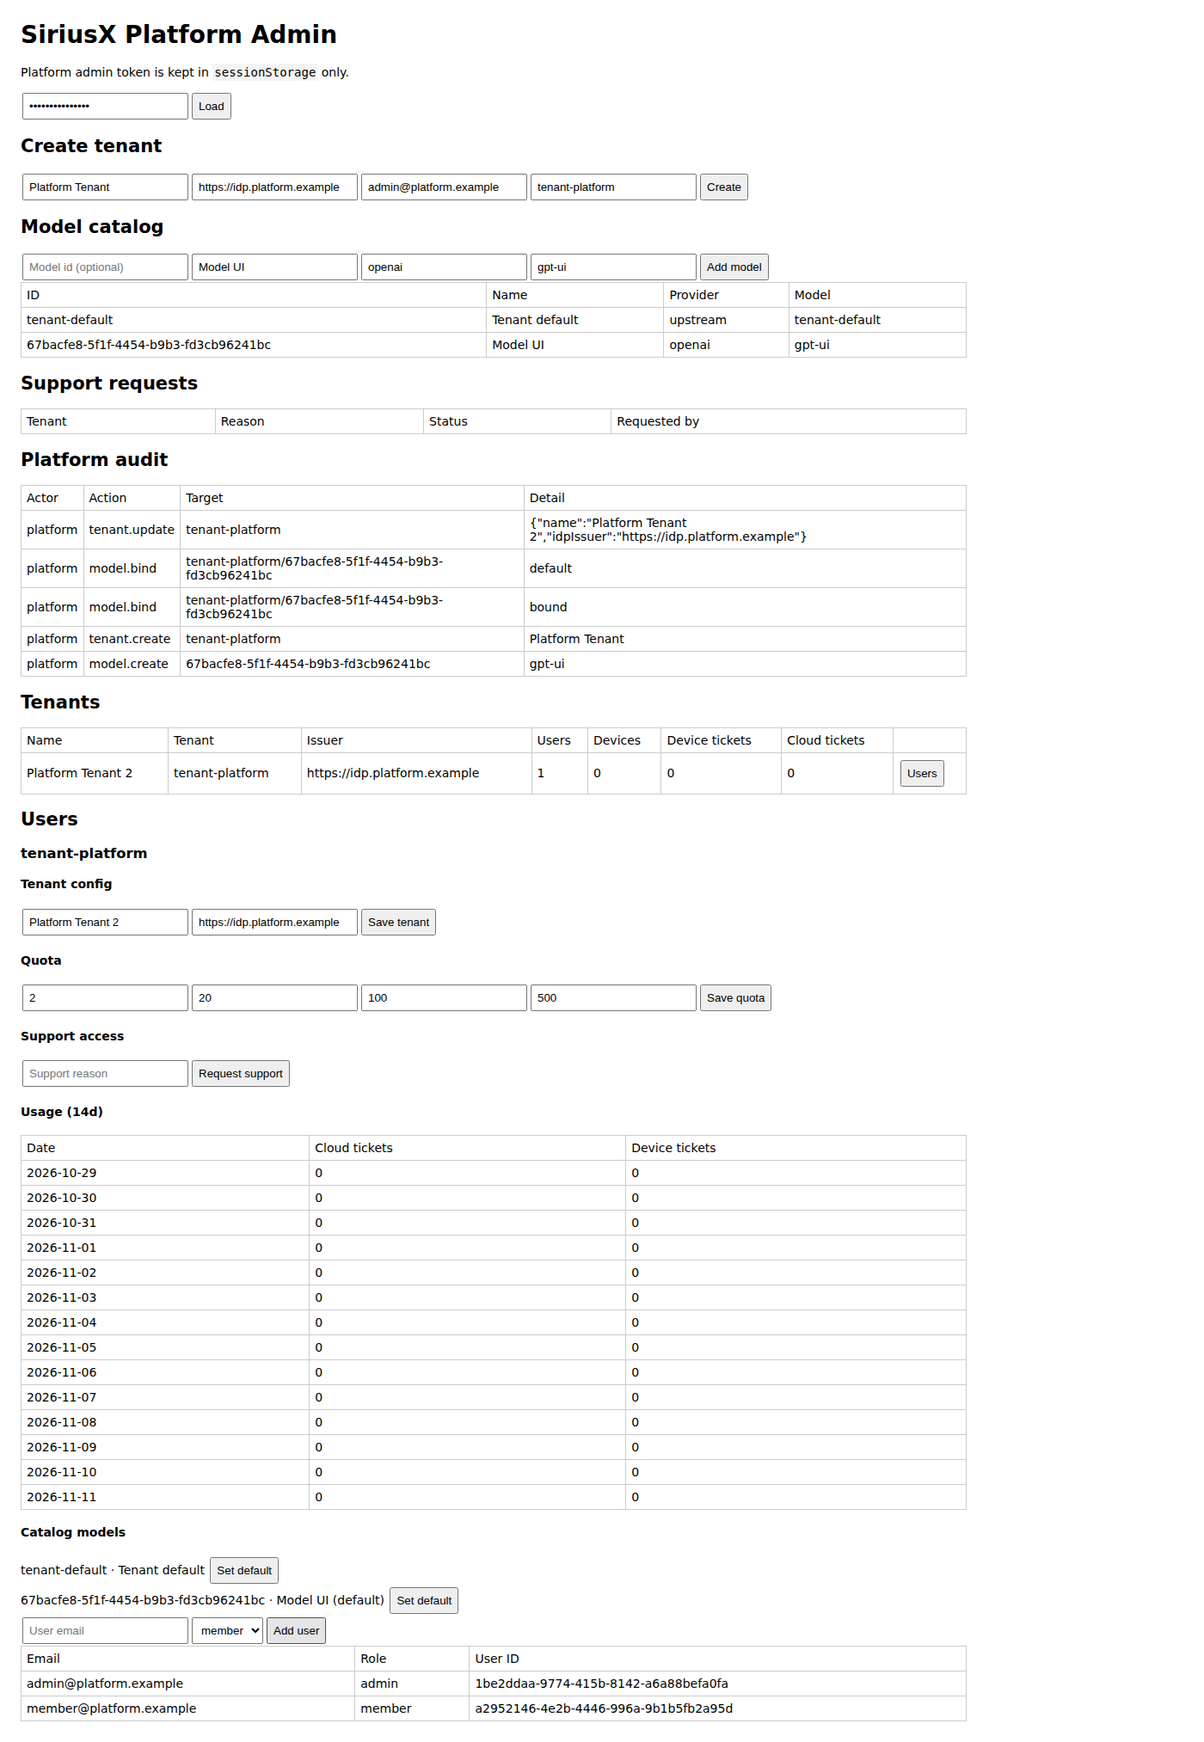
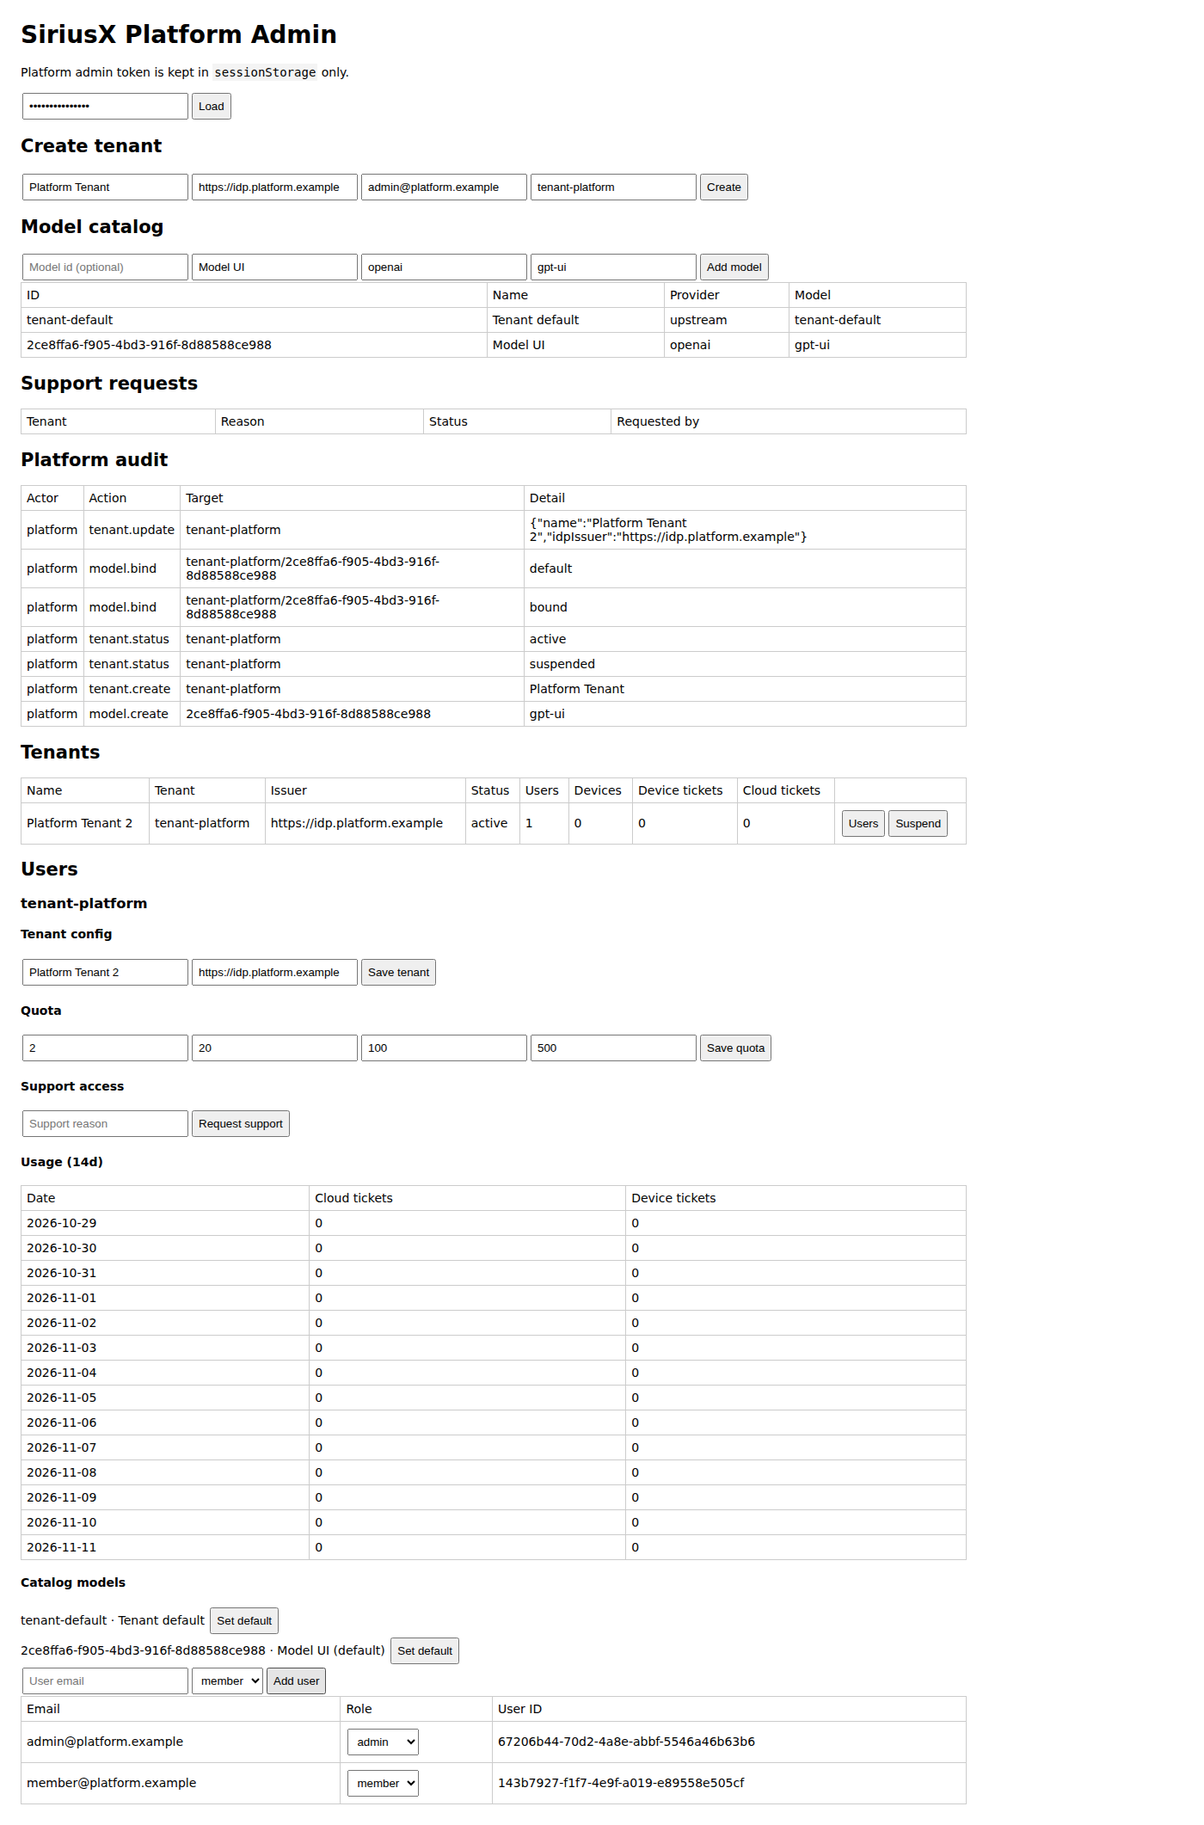
feat: suspend and resume tenants

diff --git a/apps/control-plane/src/index.ts b/apps/control-plane/src/index.ts
@@ -34,6 +34,7 @@ export interface Tenant {
   readonly name: string
   readonly idpIssuer: string
   readonly createdAt: number
+  readonly status: 'active' | 'suspended'
 }
 
 export interface Device {
@@ -68,6 +69,7 @@ CREATE TABLE IF NOT EXISTS tenants (
   id TEXT PRIMARY KEY,
   name TEXT NOT NULL,
   idp_issuer TEXT NOT NULL,
+  status TEXT NOT NULL DEFAULT 'active',
   created_at INTEGER NOT NULL
 );
 CREATE TABLE IF NOT EXISTS users (
@@ -224,6 +226,8 @@ export class ControlPlane {
     mkdirSync(options.dataDir, { recursive: true })
     this.#db = new DatabaseSync(options.dbPath)
     this.#db.exec(SCHEMA)
+    const tenantColumns = this.#db.prepare('PRAGMA table_info(tenants)').all() as Array<{ name: string }>
+    if (!tenantColumns.some(column => column.name === 'status')) this.#db.exec("ALTER TABLE tenants ADD COLUMN status TEXT NOT NULL DEFAULT 'active'")
     this.#dataDir = options.dataDir
     this.#secret = options.sessionSecret ?? randomBytes(32).toString('base64url')
     this.#now = options.now ?? Date.now
@@ -244,9 +248,9 @@ export class ControlPlane {
     this.#db.close()
   }
 
-  private tenantRow(tenantId: string): { id: string; name: string; idp_issuer: string; created_at: number } {
+  private tenantRow(tenantId: string): { id: string; name: string; idp_issuer: string; created_at: number; status: 'active' | 'suspended' } {
     const row = this.#db.prepare('SELECT * FROM tenants WHERE id = ?').get(tenantId) as
-      | { id: string; name: string; idp_issuer: string; created_at: number }
+      | { id: string; name: string; idp_issuer: string; created_at: number; status: 'active' | 'suspended' }
       | undefined
     if (row === undefined) throw new ControlPlaneError(404, 'TENANT_NOT_FOUND', tenantId)
     return row
@@ -257,8 +261,8 @@ export class ControlPlane {
     const now = this.#now()
     this.#db.exec('BEGIN')
     try {
-      this.#db.prepare('INSERT INTO tenants (id, name, idp_issuer, created_at) VALUES (?, ?, ?, ?)')
-        .run(id, input.name, input.idpIssuer, now)
+      this.#db.prepare('INSERT INTO tenants (id, name, idp_issuer, status, created_at) VALUES (?, ?, ?, ?, ?)')
+        .run(id, input.name, input.idpIssuer, 'active', now)
       this.#db.prepare('INSERT INTO settings (tenant_id) VALUES (?)').run(id)
       this.#db.prepare('INSERT OR IGNORE INTO tenant_models (tenant_id, model_id, is_default) VALUES (?, ?, 1)').run(id, 'tenant-default')
       this.#db.prepare('INSERT INTO tenant_quotas (tenant_id, max_users, max_devices, max_cloud_tickets_per_day, max_device_tickets_per_day, updated_at) VALUES (?, 50, 20, 100, 500, ?)').run(id, now)
@@ -269,7 +273,13 @@ export class ControlPlane {
       this.#db.exec('ROLLBACK')
       throw error
     }
-    return { id, name: input.name, idpIssuer: input.idpIssuer, createdAt: now }
+    return { id, name: input.name, idpIssuer: input.idpIssuer, createdAt: now, status: 'active' }
+  }
+
+  setTenantStatus(tenantId: string, status: 'active' | 'suspended'): Tenant {
+    const current = this.tenantRow(tenantId)
+    this.#db.prepare('UPDATE tenants SET status = ? WHERE id = ?').run(status, tenantId)
+    return { id: tenantId, name: current.name, idpIssuer: current.idp_issuer, createdAt: current.created_at, status }
   }
 
   updateTenant(tenantId: string, patch: { name?: string; idpIssuer?: string }): Tenant {
@@ -277,13 +287,13 @@ export class ControlPlane {
     const name = patch.name ?? current.name
     const idpIssuer = patch.idpIssuer ?? current.idp_issuer
     this.#db.prepare('UPDATE tenants SET name = ?, idp_issuer = ? WHERE id = ?').run(name, idpIssuer, tenantId)
-    return { id: tenantId, name, idpIssuer, createdAt: current.created_at }
+    return { id: tenantId, name, idpIssuer, createdAt: current.created_at, status: current.status }
   }
 
   listTenants(): Tenant[] {
     return (this.#db.prepare('SELECT * FROM tenants ORDER BY created_at, rowid').all() as Array<{
-      id: string; name: string; idp_issuer: string; created_at: number
-    }>).map(row => ({ id: row.id, name: row.name, idpIssuer: row.idp_issuer, createdAt: row.created_at }))
+      id: string; name: string; idp_issuer: string; created_at: number; status: 'active' | 'suspended'
+    }>).map(row => ({ id: row.id, name: row.name, idpIssuer: row.idp_issuer, createdAt: row.created_at, status: row.status }))
   }
 
   createSupportRequest(tenantId: string, requestedBy: string, reason: string): { id: string; status: string; expiresAt: number | null } {
@@ -429,8 +439,8 @@ export class ControlPlane {
 
   findTenantByIssuer(issuer: string): Tenant | undefined {
     const row = this.#db.prepare('SELECT * FROM tenants WHERE idp_issuer = ?').get(issuer) as
-      | { id: string; name: string; idp_issuer: string; created_at: number } | undefined
-    return row === undefined ? undefined : { id: row.id, name: row.name, idpIssuer: row.idp_issuer, createdAt: row.created_at }
+      | { id: string; name: string; idp_issuer: string; created_at: number; status: 'active' | 'suspended' } | undefined
+    return row === undefined ? undefined : { id: row.id, name: row.name, idpIssuer: row.idp_issuer, createdAt: row.created_at, status: row.status }
   }
 
   findUserByEmail(tenantId: string, email: string): { id: string; role: Role } | undefined {
@@ -459,6 +469,7 @@ export class ControlPlane {
   }
 
   issueSession(input: { tenantId: string; userId: string; role: Role }): string {
+    if (this.tenantRow(input.tenantId).status === 'suspended') throw new ControlPlaneError(403, 'TENANT_SUSPENDED', 'tenant is suspended')
     const user = this.#db.prepare('SELECT id, role FROM users WHERE id = ? AND tenant_id = ?').get(input.userId, input.tenantId) as
       | { id: string; role: string } | undefined
     if (user === undefined) throw new ControlPlaneError(401, 'USER_NOT_FOUND', 'user is not a member of this tenant')
@@ -491,6 +502,8 @@ export class ControlPlane {
     if (typeof value.jti === 'string' && this.#db.prepare('SELECT 1 FROM revoked_sessions WHERE session_id = ? AND expires_at > ?').get(value.jti, this.#now()) !== undefined) {
       throw new ControlPlaneError(401, 'SESSION_REVOKED', 'session revoked')
     }
+    const tenant = this.#db.prepare('SELECT status FROM tenants WHERE id = ?').get(value.tenantId) as { status: string } | undefined
+    if (tenant?.status === 'suspended') throw new ControlPlaneError(403, 'TENANT_SUSPENDED', 'tenant is suspended')
     const user = this.#db.prepare('SELECT role FROM users WHERE id = ? AND tenant_id = ?').get(value.userId, value.tenantId) as { role: Role } | undefined
     if (user === undefined) throw new ControlPlaneError(401, 'UNAUTHORIZED', 'user no longer exists')
     return { tenantId: value.tenantId, userId: value.userId, role: user.role }

diff --git a/apps/control-plane/src/server.ts b/apps/control-plane/src/server.ts
@@ -138,10 +138,12 @@ async function loadTenants() {
   const data = await api('/v1/admin/tenants');
   tenantsCache = data.tenants;
   const host = document.getElementById('tenants'); host.textContent = '';
-  const table = document.createElement('table'); table.append(row(['Name','Tenant','Issuer','Users','Devices','Device tickets','Cloud tickets','']));
+  const table = document.createElement('table'); table.append(row(['Name','Tenant','Issuer','Status','Users','Devices','Device tickets','Cloud tickets','']));
   for (const tenant of data.tenants) {
-    const tr = row([tenant.name, tenant.id, tenant.idpIssuer, tenant.usage.users, tenant.usage.devices, tenant.usage.deviceTickets, tenant.usage.cloudTickets]);
-    const button = document.createElement('button'); button.textContent = 'Users'; button.onclick = () => loadUsers(tenant.id); const td = document.createElement('td'); td.append(button); tr.append(td); table.append(tr);
+    const tr = row([tenant.name, tenant.id, tenant.idpIssuer, tenant.status, tenant.usage.users, tenant.usage.devices, tenant.usage.deviceTickets, tenant.usage.cloudTickets]);
+    const button = document.createElement('button'); button.textContent = 'Users'; button.onclick = () => loadUsers(tenant.id); const td = document.createElement('td'); td.append(button);
+    const toggle = document.createElement('button'); toggle.textContent = tenant.status === 'active' ? 'Suspend' : 'Resume'; toggle.onclick = async () => { try { await api('/v1/admin/tenants/' + encodeURIComponent(tenant.id) + '/status', {method:'POST', body: JSON.stringify({status: tenant.status === 'active' ? 'suspended' : 'active'})}); await loadTenants(); await loadPlatformAudit(); } catch (e) { err(e); } };
+    td.append(toggle); tr.append(td); table.append(tr);
   }
   host.append(table);
 }
@@ -171,7 +173,12 @@ async function loadUsers(tenantId) {
   const add = document.createElement('div'); add.innerHTML = '<input id="newEmail" placeholder="User email"><select id="newRole"><option>member</option><option>admin</option></select><button id="addUser">Add user</button>'; host.append(add);
   add.querySelector('#addUser').onclick = async () => { try { await api('/v1/admin/tenants/' + encodeURIComponent(tenantId) + '/users', {method:'POST', body: JSON.stringify({email: add.querySelector('#newEmail').value, role: add.querySelector('#newRole').value})}); await loadUsers(tenantId); } catch (e) { err(e); } };
   const table = document.createElement('table'); table.append(row(['Email','Role','User ID']));
-  for (const user of data.users) table.append(row([user.email, user.role, user.userId]));
+  for (const user of data.users) {
+    const tr = row([user.email, user.role, user.userId]);
+    const select = document.createElement('select'); select.innerHTML = '<option>member</option><option>admin</option>'; select.value = user.role;
+    select.onchange = async () => { try { await api('/v1/admin/tenants/' + encodeURIComponent(tenantId) + '/users/' + encodeURIComponent(user.userId) + '/role', {method:'PUT', body: JSON.stringify({role: select.value})}); await loadUsers(tenantId); await loadPlatformAudit(); } catch (e) { err(e); } };
+    tr.children[1].textContent = ''; tr.children[1].append(select); table.append(tr);
+  }
   host.append(table);
 }
 document.getElementById('load').onclick = async () => { try { sessionStorage.setItem('platformToken', document.getElementById('token').value); await Promise.all([loadTenants(), loadModels(), loadPlatformAudit(), loadSupportRequests()]); } catch (e) { err(e); } };
@@ -263,6 +270,14 @@ document.getElementById('createTenant').onclick = async () => { try { await api(
           })
           control.recordPlatformAudit({ actor: 'platform', action: 'tenant.create', target: tenant.id, detail: tenant.name })
           write(response, 201, { tenant })
+          return
+        }
+        if (request.method === 'POST' && parts[2] === 'tenants' && parts[3] !== undefined && parts[4] === 'status' && parts[5] === undefined) {
+          const body = await readJson(request)
+          if (body.status !== 'active' && body.status !== 'suspended') throw new Error('status must be active or suspended')
+          const tenant = control.setTenantStatus(parts[3], body.status)
+          control.recordPlatformAudit({ actor: 'platform', action: 'tenant.status', target: tenant.id, detail: body.status })
+          write(response, 200, { tenant })
           return
         }
         if (request.method === 'PUT' && parts[2] === 'tenants' && parts[3] !== undefined && parts[4] === undefined) {

diff --git a/evidence/S5/15-platform-admin-ui/run.ts b/evidence/S5/15-platform-admin-ui/run.ts
@@ -26,6 +26,11 @@ try {
   await page.getByPlaceholder('Tenant id (optional)').fill('tenant-platform')
   await page.getByRole('button', { name: 'Create' }).click()
   await page.waitForTimeout(500)
+  await page.getByRole('button', { name: 'Suspend' }).last().click()
+  await page.waitForTimeout(400)
+  const suspended = (await page.locator('body').innerText()).includes('suspended')
+  await page.getByRole('button', { name: 'Resume' }).last().click()
+  await page.waitForTimeout(400)
   await page.getByRole('button', { name: 'Users' }).first().click()
   await page.waitForTimeout(300)
   await page.getByRole('button', { name: 'Bind' }).last().click()
@@ -43,9 +48,9 @@ try {
   await page.waitForTimeout(500)
   const body = await page.locator('body').innerText()
   await page.screenshot({ path: '/root/siriusx/evidence/S5/15-platform-admin-ui/admin.png', fullPage: true })
-  const result = { tenant: body.includes('tenant-platform'), usage: body.includes('Platform Tenant 2'), quota: body.includes('Quota') && body.includes('Save quota'), usageDaily: body.includes('Usage (14d)'), model: body.includes('Model UI') && body.includes('Catalog models'), audit: body.includes('Platform audit') && body.includes('tenant.create'), user: body.includes('member@platform.example'), errors }
+  const result = { tenant: body.includes('tenant-platform'), suspended, usage: body.includes('Platform Tenant 2'), quota: body.includes('Quota') && body.includes('Save quota'), usageDaily: body.includes('Usage (14d)'), model: body.includes('Model UI') && body.includes('Catalog models'), audit: body.includes('Platform audit') && body.includes('tenant.create'), user: body.includes('member@platform.example'), errors }
   console.log(JSON.stringify(result, null, 2))
-  if (!result.tenant || !result.usage || !result.quota || !result.usageDaily || !result.model || !result.audit || !result.user || errors.length > 0) process.exitCode = 1
+  if (!result.tenant || !result.suspended || !result.usage || !result.quota || !result.usageDaily || !result.model || !result.audit || !result.user || errors.length > 0) process.exitCode = 1
 } finally {
   await browser.close(); await server.close(); await rm(root, { recursive: true, force: true })
 }

diff --git a/apps/control-plane/tests/control-plane.spec.ts b/apps/control-plane/tests/control-plane.spec.ts
@@ -493,4 +493,17 @@ describe('control plane', () => {
     expect(() => plane.decideSupportRequest(tenant.id, created.id, false, 'admin@support.example')).toThrow('approved')
   })
 
+  it('suspends a tenant and invalidates its sessions', async () => {
+    const { plane } = await setup()
+    const tenant = plane.provisionTenant({ tenantId: 'tenant-suspend', name: 'Suspend', idpIssuer: 'https://idp.example', adminEmail: 'admin@suspend.example' })
+    const admin = plane.findUserByEmail(tenant.id, 'admin@suspend.example')!
+    const token = plane.issueSession({ tenantId: tenant.id, userId: admin.id, role: 'admin' })
+    expect(plane.verifySession(token).tenantId).toBe(tenant.id)
+    expect(plane.setTenantStatus(tenant.id, 'suspended').status).toBe('suspended')
+    expect(() => plane.verifySession(token)).toThrow('tenant is suspended')
+    expect(() => plane.issueSession({ tenantId: tenant.id, userId: admin.id, role: 'admin' })).toThrow('tenant is suspended')
+    expect(plane.setTenantStatus(tenant.id, 'active').status).toBe('active')
+    expect(plane.issueSession({ tenantId: tenant.id, userId: admin.id, role: 'admin' })).toBeTruthy()
+  })
+
 })

diff --git a/docs/status.md b/docs/status.md
@@ -8,7 +8,7 @@
 | S3 本机闭环 | `packages/executor-local`、`plugins/executor-local`、`apps/autobot` | `evidence/S3/` | **完成**：真实 DSH AgentLoop、Bot/DSH Web Host SIGKILL/重启、模型断线、previews/TTL/进程组清理/env 隔离/symlink 越界防护、lost 自动 resume 重试、sandbox orphan sweep + systemd timer 通过；tag `executor-v0.1.0` |
 | S4 工单界面 | 四个独立 client package + `packages/app-contract` + `apps/autobot/src/server.ts` | `evidence/S4/` | **部分**：发起/阶段/diff/排序/断线清空/审批/慢任务打断、四插件拆分通过；10 天自用待补 |
 | S5 登录/租户 | `plugins/account-sso`、`apps/control-plane`（含 device gateway/model gateway）、Desktop enterprise gate | `evidence/S5/` | **部分**：OIDC/隔离/配对/长连接/模型网关/隐私 badge/个人 Bot 派工/原生入口管理员开关、全栈离线一键安装、session TTL 过期拒绝、server-side revocation、server-side authority 通过；真实 IdP、KMS 待补 |
-| S6 工具网关 | `apps/tool-gateway`、`packages/analytics`、local_dir 上行过滤 | `evidence/S6/` | **部分**：审批过期 sweep/审计/fail-closed/分级/Bot 事件接线/完整 ticket trace + audit chain 状态 + tenant-scoped audit、管理面 API/UI + 平台运营 `/admin` + tenant quota enforcement、model catalog/binding/runtime enforcement、tenant tool policy/audit summary/platform audit、daily usage trend、tenant SSO/config editing、support access approval、tool-gateway 默认无 wildcard CORS、audit hash chain + verify endpoint/Vault KV v1+v2、TTL 轮换与 fail-closed 凭据适配、模型 key 抓包隔离、agent env/audit 凭据隔离、设备离线宽限 lost + 宽限期内重连恢复通过；真实 KMS/Vault 待补 |
+| S6 工具网关 | `apps/tool-gateway`、`packages/analytics`、local_dir 上行过滤 | `evidence/S6/` | **部分**：审批过期 sweep/审计/fail-closed/分级/Bot 事件接线/完整 ticket trace + audit chain 状态 + tenant-scoped audit、管理面 API/UI + 平台运营 `/admin` + tenant quota enforcement、model catalog/binding/runtime enforcement、tenant tool policy/audit summary/platform audit、daily usage trend、tenant SSO/config editing、support access approval、tenant suspend/resume、tool-gateway 默认无 wildcard CORS、audit hash chain + verify endpoint/Vault KV v1+v2、TTL 轮换与 fail-closed 凭据适配、模型 key 抓包隔离、agent env/audit 凭据隔离、设备离线宽限 lost + 宽限期内重连恢复通过；真实 KMS/Vault 待补 |
 | S7 云执行 | `packages/cloud-executor`、`packages/kernel-acp` | `evidence/S7/` | **部分**：Docker/ACP/真实 dsh+pi（含 sandbox）/同工单内核一致性、本地/云端 DSH 事件序列一致性、ACP 边界/卷并发决策/云端 repo clone/沙箱 dispose/assignment timeout/资源限额+cap-drop/no-new-privileges+env+出口 allowlist/SQLite 恢复/GitHub/GitLab connector、gateway 审批写、mock Issue→MR 通过；真实平台 Issue→MR、M2 真崩溃待补 |
 | S8 发布 | `plugins/brand-siriusx`、`deploy/release`、`deploy/offline` | `evidence/S8/` | **部分**：品牌/图标/打包参数、Linux 全依赖离线 tar（含 sandbox image）、DSH Web 离线镜像、全栈 Compose、internal 网络隔离、断网 Debian 容器安装、native/Docker 单机安装、全栈离线一键包、health version/commit、`/ready` 就绪探针、Compose healthcheck、企业插件 bundle/资源清单、更新源 static feed（realpath 防 traversal）、本地发布门禁、脚本可移植性检查、发布清单、CycloneDX SBOM（transitive + license）+ license policy gate、补丁回移演练通过；mac/win 签名安装与全服务干净机验收待补 |
 | S9 Web | DSH Web Host + Team panel control-plane 模式 | `evidence/S9/` | **部分**：同插件复用、两租户隔离、HttpOnly cookie 同源网关、OIDC state cookie 绑定、浏览器 OIDC（本地 HS256/RS256 JWKS IdP）登录并看工单、同工单跨接入模式渲染一致、无原生对话/本地目录入口、Web 审批、HTTP/WS Origin 校验（支持 forwarded headers）、登录限流/trusted proxy IP、1 MiB 请求体/WS frame 上限、Secure cookie、login CSP/HSTS、local logout / OIDC RP-initiated logout、云端 repo URL 校验、项目发起/打断/重启对账/follow-up（API + Team UI，Docker+fake ACP）通过；真实企业 IdP/真实 agent 待补 |

diff --git a/evidence/S5/15-platform-admin-ui/README.md b/evidence/S5/15-platform-admin-ui/README.md
@@ -13,7 +13,7 @@ Control Plane 新增独立 `/admin` 页面：
 - 创建 `tenant-platform`
 - 页面显示 Platform Tenant 与 usage 计数
 - 新增 `member@platform.example`
-- 新增 Model UI，保存租户 quota，展示 14 天 usage，编辑 tenant name/issuer，绑定模型，Platform audit 显示 tenant.create
+- 新增 Model UI，保存租户 quota，展示 14 天 usage，编辑 tenant name/issuer、Suspend/Resume，绑定模型，Platform audit 显示 tenant.create
 - console errors 为空
 
 CSP：

diff --git a/evidence/S5/21-tenant-suspend/README.md b/evidence/S5/21-tenant-suspend/README.md
@@ -1,0 +1,12 @@
+# Tenant suspend / resume
+
+- `tenants.status`：active / suspended
+- `POST /v1/admin/tenants/:id/status`
+- suspended tenant：
+  - 现有 session 访问返回 `TENANT_SUSPENDED`
+  - 新 session 无法签发
+- `/admin` 租户列表显示状态并支持 Suspend/Resume
+- Platform audit 记录 `tenant.status`
+
+浏览器实测：Suspend 后显示 suspended，再 Resume 恢复。
+证据：`test.txt`、`typecheck.txt`、`ui-typecheck.txt`、`../15-platform-admin-ui/admin.png`。

diff --git a/TODO.md b/TODO.md
@@ -72,6 +72,7 @@
 - [x] Daily usage trend（cloud/device tickets）
 - [x] Tenant SSO/config editing + platform audit
 - [x] Emergency support access request/approval workflow
+- [x] Tenant suspend/resume + platform audit
 - [x] Web Gateway 支持 X-Forwarded-Proto/Host 的 HTTPS Origin
 - [x] Trusted proxy 下的登录限流按 X-Forwarded-For 区分客户端
 - [x] HTTPS 下返回 HSTS
